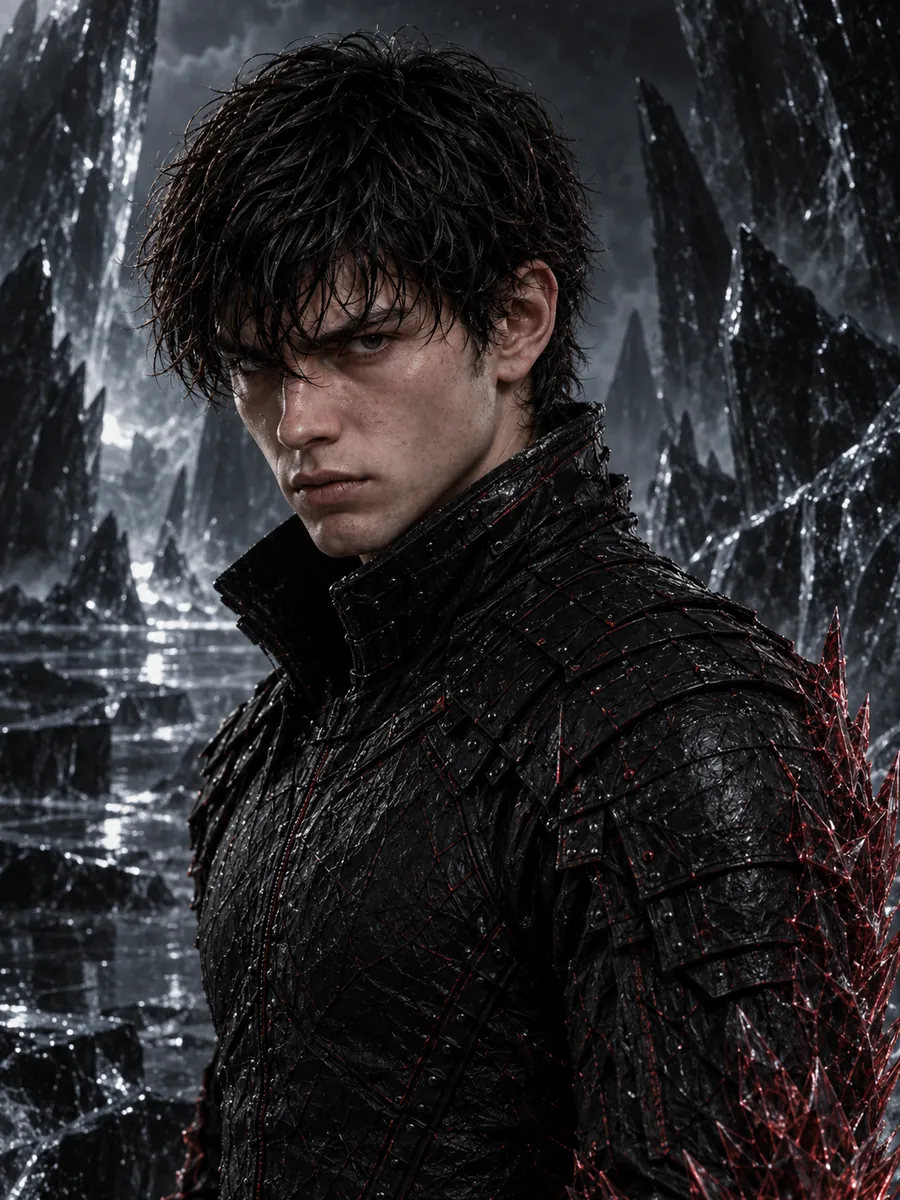
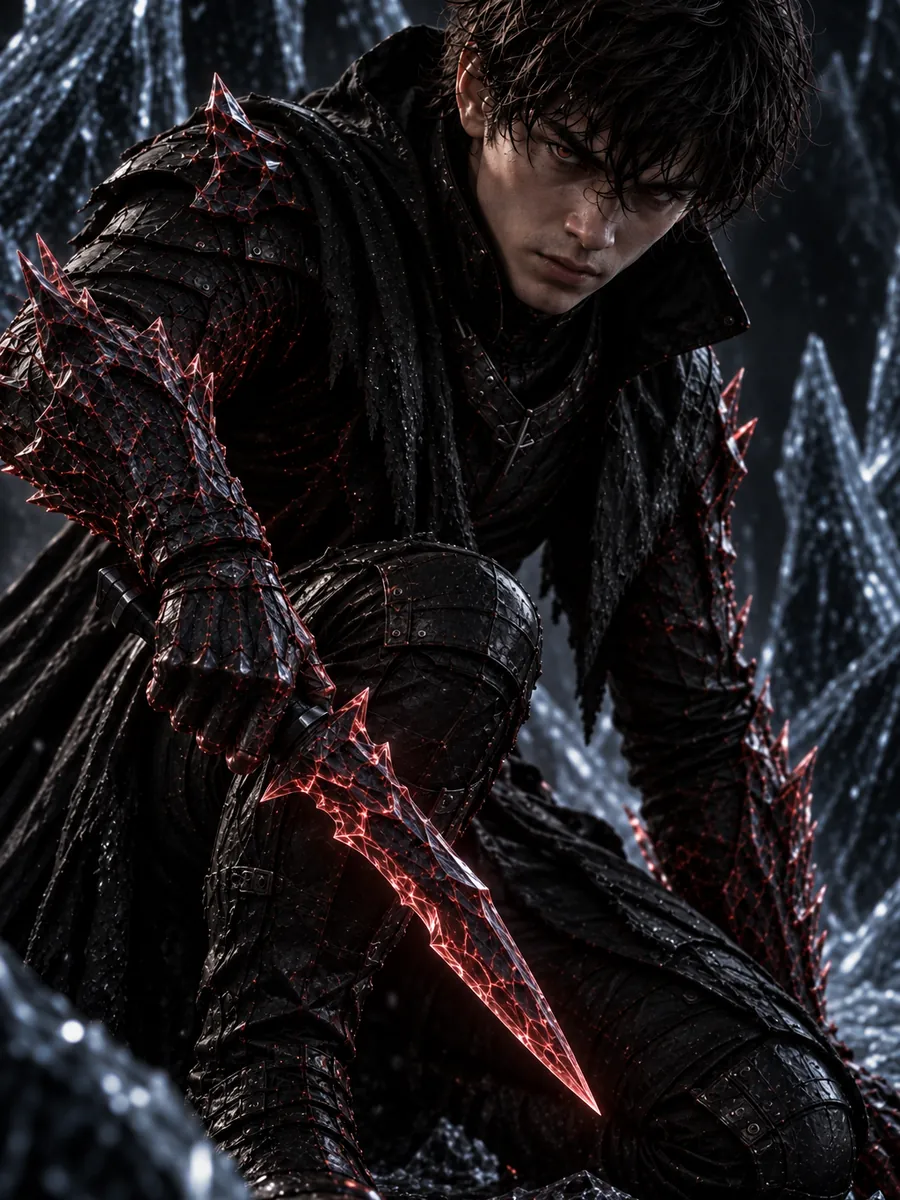
Ian: version nueva, con la espada
Escandar la prefiere. Trae la cara al 17,4% del alto (83 px en la tarjeta), muy
por encima de los 54-58 px que tenian Kier y Lina, asi que NO se aplica el
recorte cerrado: se comeria la espada, que es lo que hace buena a la imagen. Solo
se ajusta la proporcion a 3:4 quitando mas de abajo que de arriba, para que la
tarjeta no recorte por su cuenta. La cara queda en 93 px.

diff --git a/sw.js b/sw.js
@@ -1,6 +1,6 @@
 // REGLA (heredada del Libro I): todo cambio a index.html, styles.css, content.js,
 // app.js o nieve.js exige subir SHELL_CACHE antes de publicar.
-const SHELL_CACHE = "el-ciclo-inmovil-libro2-shell-v12";
+const SHELL_CACHE = "el-ciclo-inmovil-libro2-shell-v13";
 // Mismo nombre que AUDIO_CACHE en app.js ("Guardar sin conexión"). Si no
 // coinciden, el activate de abajo borra los capitulos guardados. No subirlo sin
 // motivo: vacia lo que cada oyente guardo.
